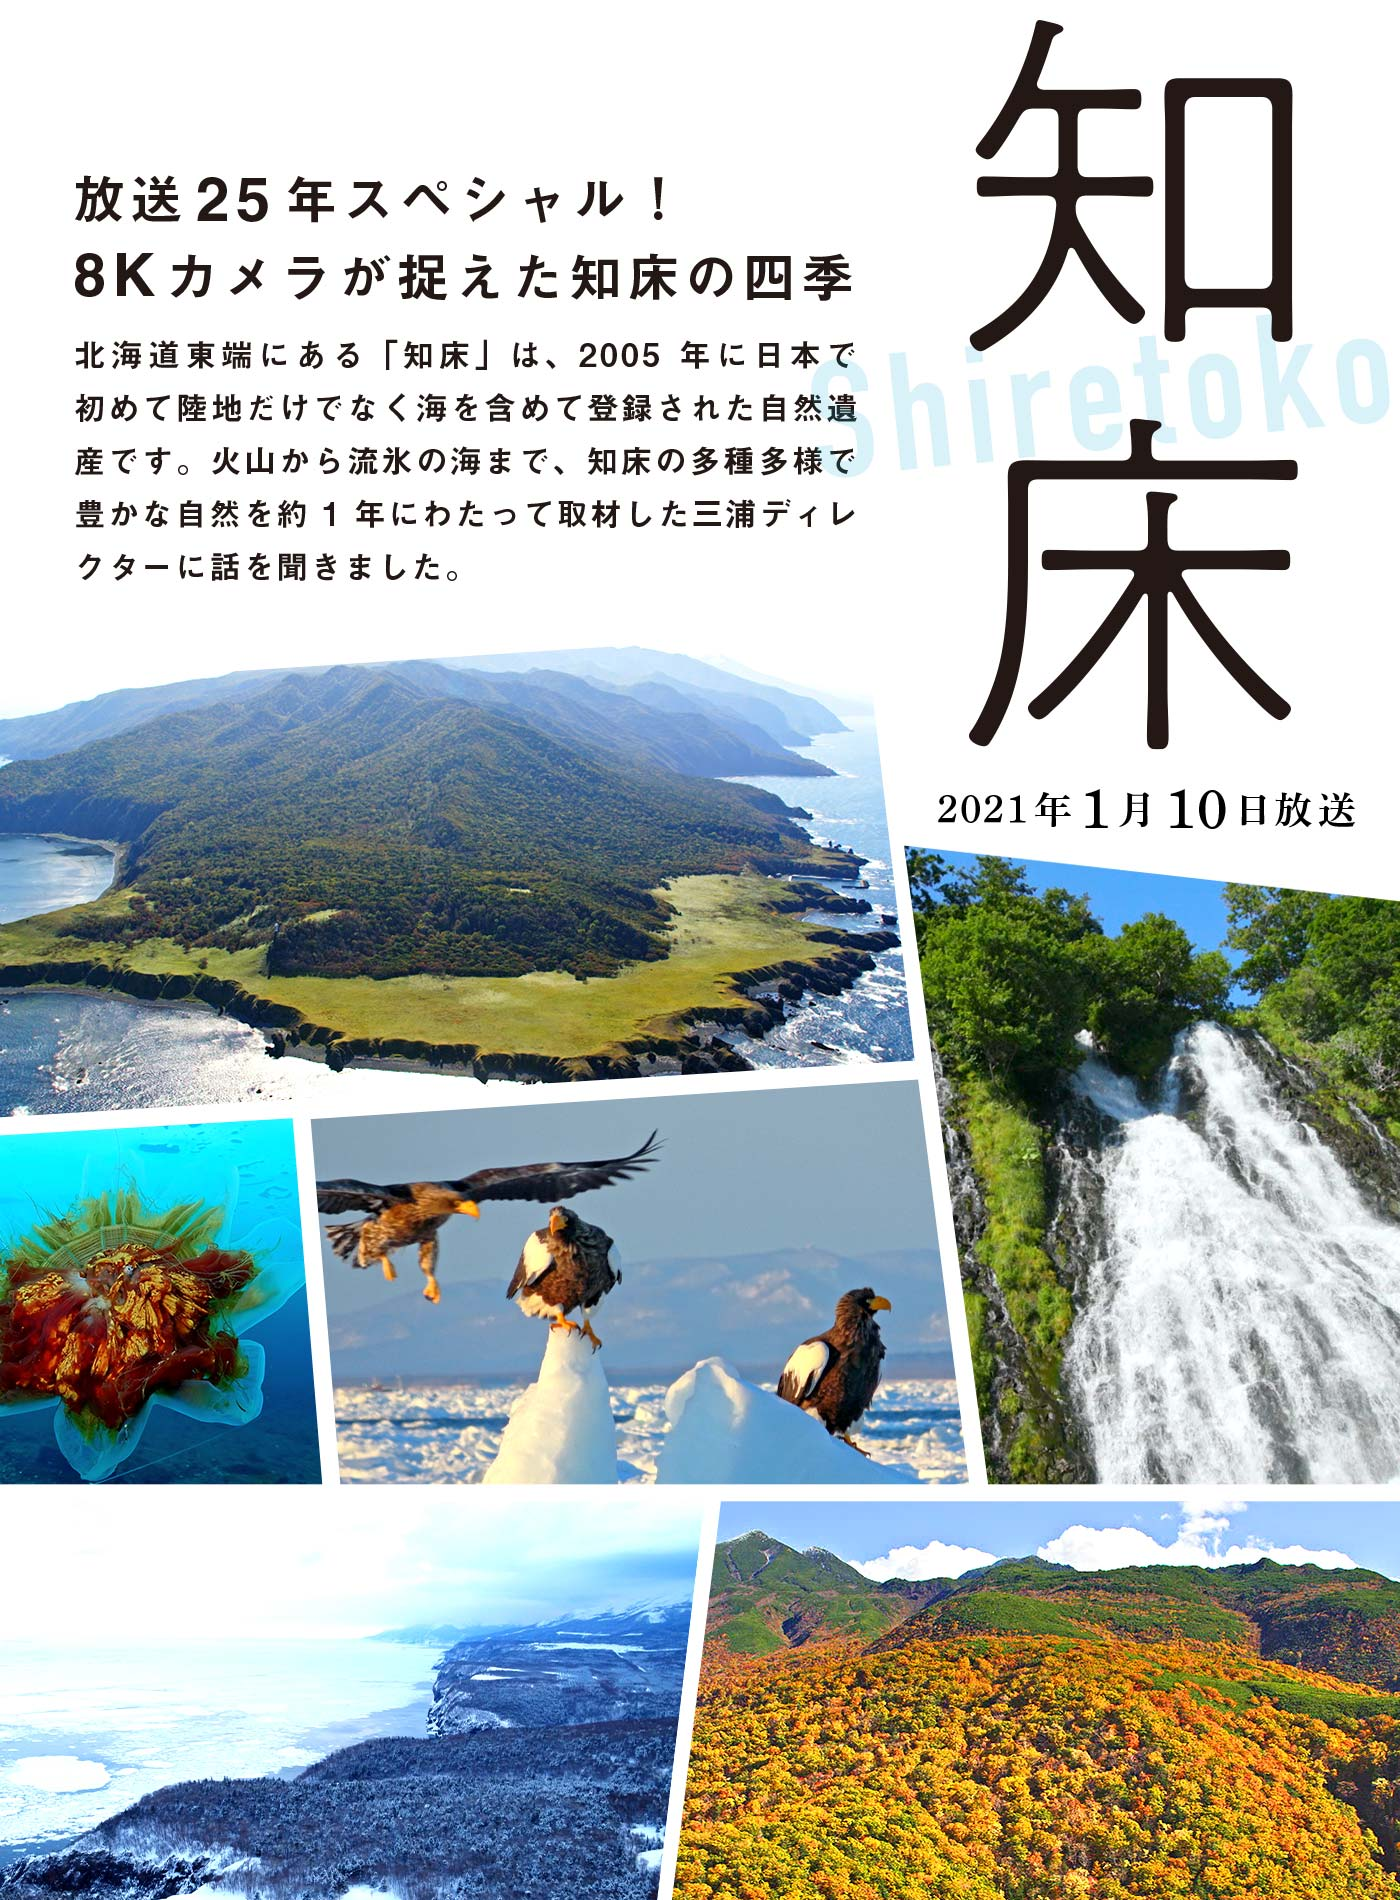
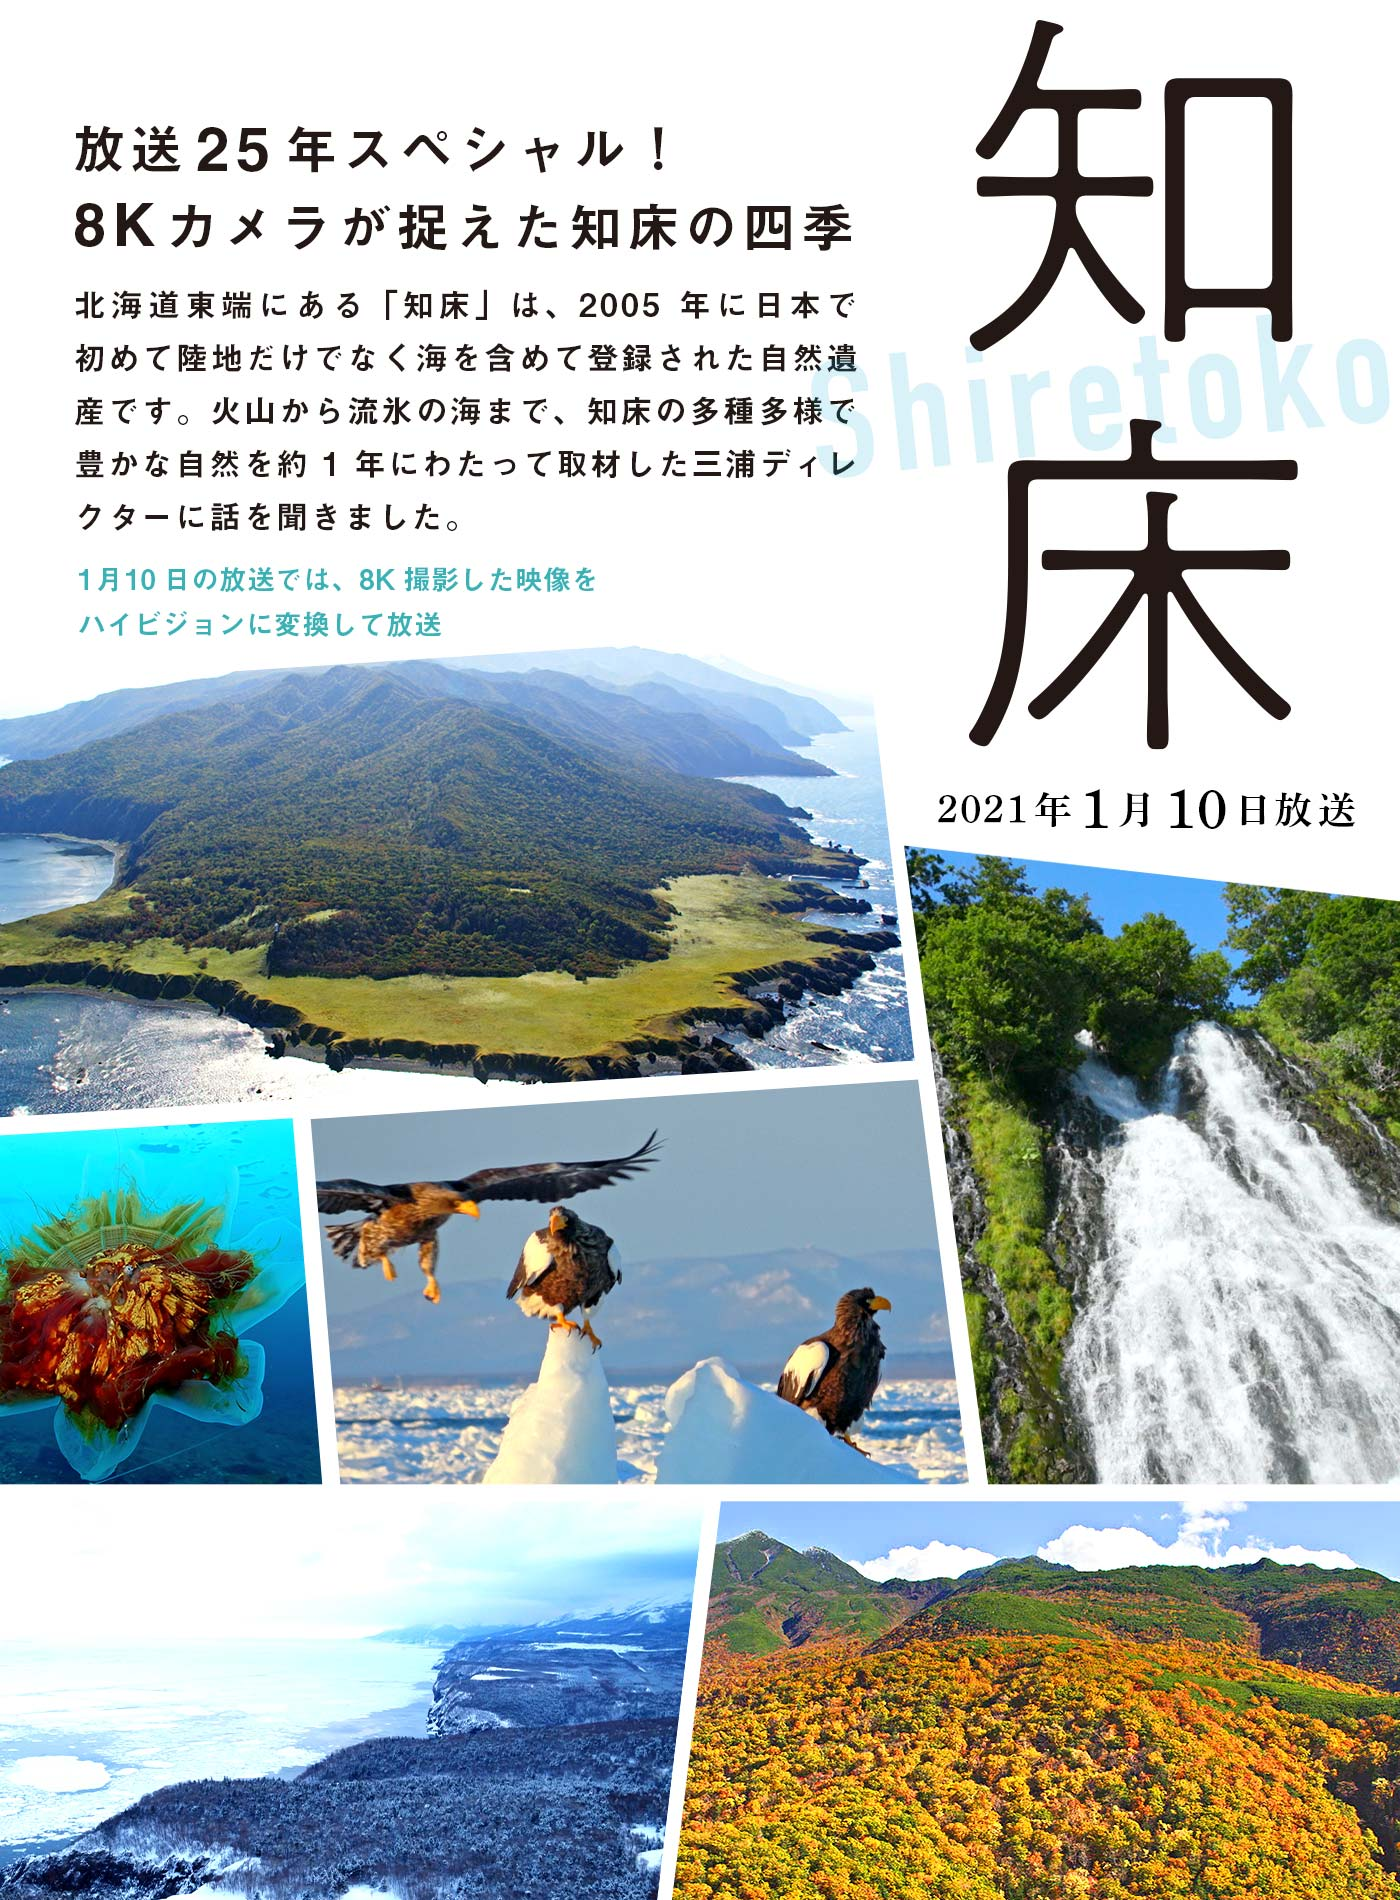
[update2101] modify text

Changed region(s): [[0.0307, 0.0621, 0.6143, 0.3416]]

diff --git a/feature/2021/202101_01.html b/feature/2021/202101_01.html
@@ -36,6 +36,7 @@
 	    <img src="../../img/feature/2021/2101/headerimage_dammy.gif" onContextmenu="return false" alt="" class="feature_dammy" />
 	    <h3 class="featureAlt">放送25年スペシャル！8Kカメラが捉えた知床の四季</h3>
 	    <p class="alt">北海道東端にある「知床」は、2005年に日本で初めて陸地だけでなく海を含めて登録された自然遺産です。火山から流氷の海まで、知床の多種多様で豊かな自然を約1年にわたって取材した三浦ディレクターに話を聞きました。</p>
+        <p class="alt">1月10日の放送では、8K撮影した映像をハイビジョンに変換して放送</p>
 	</div><!-- mainCoverArea2101 -->
 
 	<div class="menuArea2101">
@@ -54,7 +55,7 @@
         <p class="featureAsk">──自然遺産「知床」は番組として取り上げるのは３度目となるそうですね。今回はどんな内容となるのでしょうか？</p>
         <p class="featureAns">三浦ディレクター（以下、三浦）：世界遺産は2021年4月で放送開始から25周年となります。その節目となる年の最初の放送は「放送25年スペシャル４K８K特別編 知床の四季」としてお送りします。</p>
         <p class="featureAsk">──8Kということは高精細な映像で知床の自然が楽しめるのですね。</p>
-        <p class="featureAns">三浦：はい、最新のカメラを使って、最高品質の映像で撮影することができました。さらに今回は2021年１月から何度も現地を訪れ、ほぼ１年かけて四季折々の知床を撮影しました。</p>
+        <p class="featureAns">三浦：はい、最新のカメラを使って、最高品質の映像で撮影することができました。さらに今回は2020年１月から何度も現地を訪れ、ほぼ１年かけて四季折々の知床を撮影しました。</p>
     </div><!-- featureInterviewArea -->
 
     <div class="featureWideImage lazy" data-img="../../img/feature/2021/2101/shiretoko1_01.jpg">

diff --git a/feature/2021/202101_02.html b/feature/2021/202101_02.html
@@ -34,6 +34,7 @@
 	<div class="headerImage2101">
 		<h2 class="featureAlt">2021年1月10日「知床」</h2>
 	    <img src="../../img/feature/2021/2101/headerimage_dammy2.gif" onContextmenu="return false" alt="" class="feature_dammy" />
+        <p class="alt">1月10日の放送では、8K撮影した映像をハイビジョンに変換して放送</p>
 	</div><!-- headerImage2101 -->
 
 	<div class="menuArea2101">
